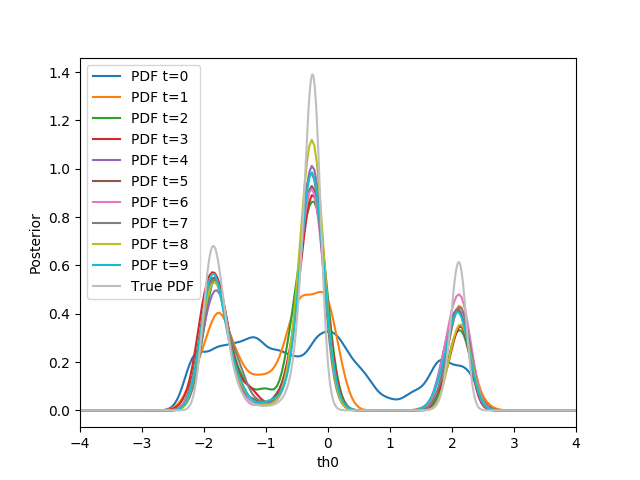
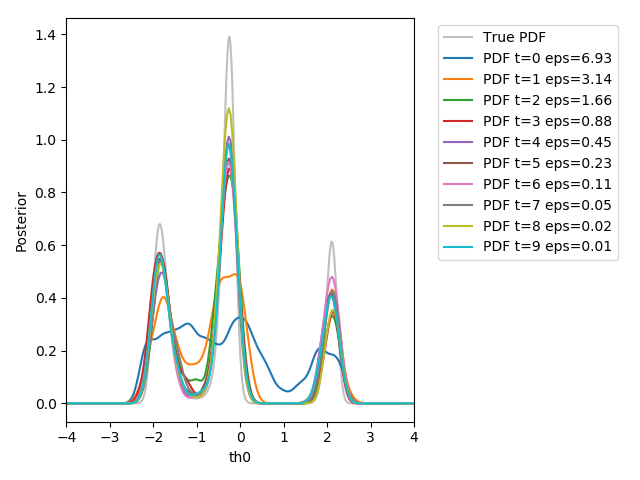
w/ cross-validation

diff --git a/pyabc_tests/wilkinson_normal/model.py b/pyabc_tests/wilkinson_normal/model.py
@@ -66,13 +66,6 @@ pop_size = 500
 def visualize(label, history, show_true=True):
     fig, ax = plt.subplots()
     pops = history.get_all_populations()
-    for t in range(0, history.max_t + 1):
-        df, w = history.get_distribution(m=0, t=t)
-        ax = pyabc.visualization.plot_kde_1d(
-            df, w, xmin=prior_lb, xmax=prior_ub,
-            x='th0', numx=200, label="PDF t={} eps={:1.2f}".format(t, np.array(pops['epsilon'])[t+1]), 
-            ax=ax)
-
     if show_true:
         integral = integrate.quad(pdf_true, prior_lb, prior_ub, limit=1000)[0]
         
@@ -85,9 +78,16 @@ def visualize(label, history, show_true=True):
             ys.append(pdf(x))
 
         integral2 = integrate.quad(pdf, prior_lb, prior_ub)[0]
-        print(integral, integral2)
         ax.plot(xs, ys, '-', color='0.75', label="True PDF")
+ 
+    for t in range(0, history.max_t + 1):
+        df, w = history.get_distribution(m=0, t=t)
+        ax = pyabc.visualization.plot_kde_1d(
+            df, w, xmin=prior_lb, xmax=prior_ub,
+            x='th0', numx=200, label="PDF t={} eps={:1.2f}".format(t, np.array(pops['epsilon'])[t+1]), 
+            ax=ax)
+
     ax.legend(bbox_to_anchor=(1.05, 1), loc=2)
-    plt.tight_layout()
+    fig.tight_layout()
     plt.savefig(label + "_kde_1d_" + str(t) + ".png")
     plt.close()
